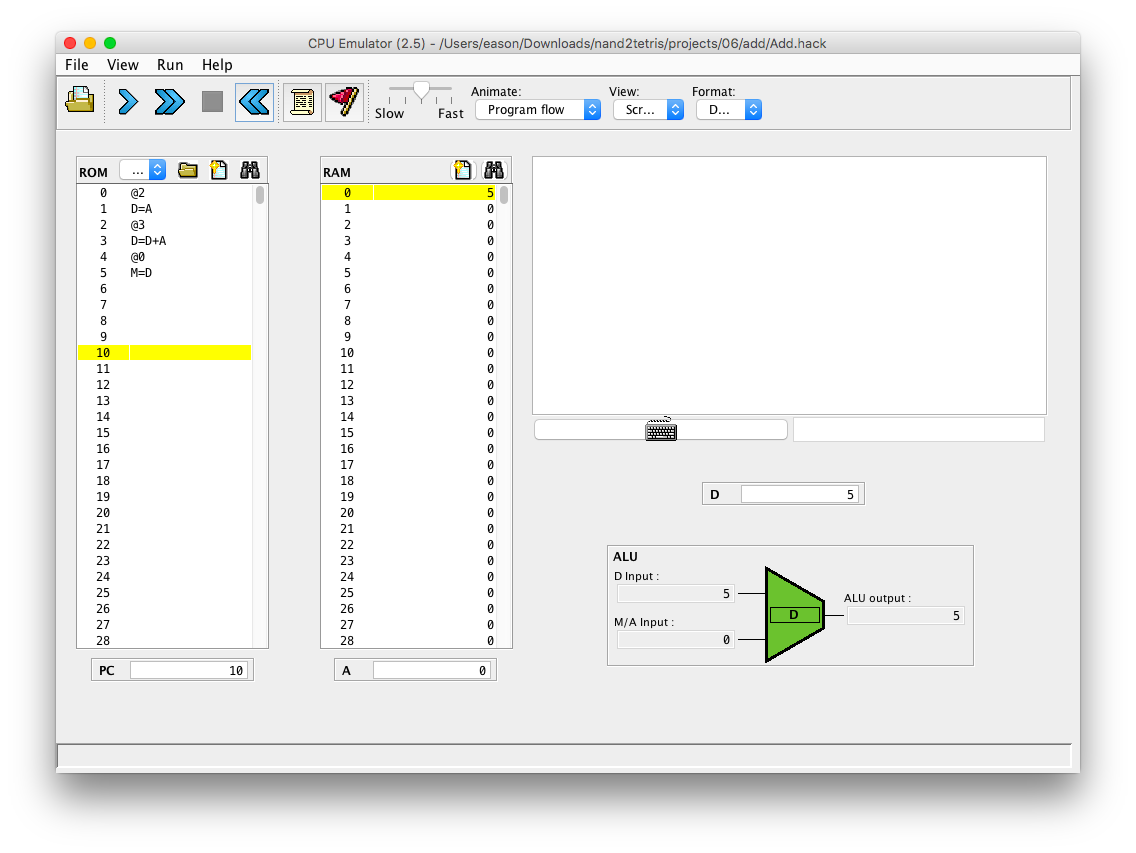
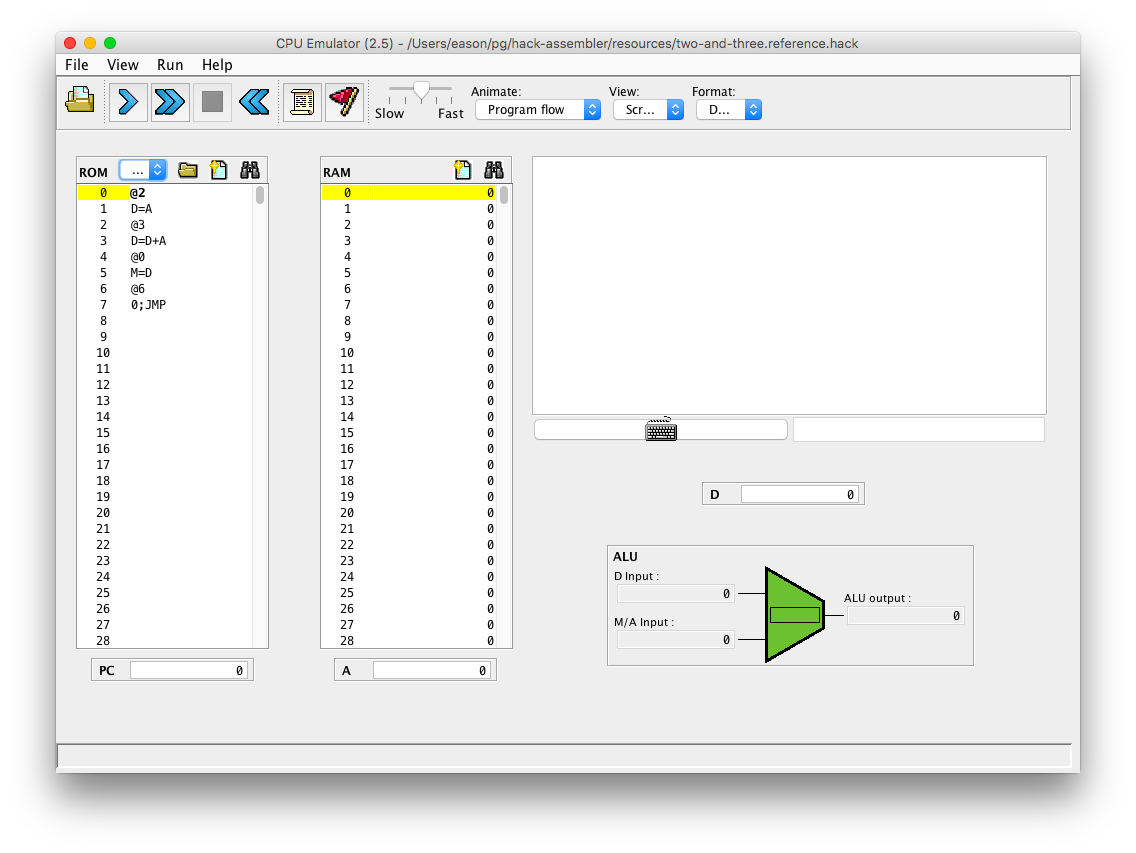
Improve documentation

diff --git a/README.md b/README.md
@@ -4,7 +4,9 @@ hack-assembler
 [![Build Status](https://travis-ci.org/easoncxz/hack-assembler.svg?branch=master)](https://travis-ci.org/easoncxz/hack-assembler)
 ![Build and test](https://github.com/easoncxz/hack-assembler/workflows/Build%20and%20test/badge.svg)
 
-![nand2tetris](resources/nand2tetris-banner.png "NAND to Tetris")
+<p align="center">
+  ![nand2tetris](resources/nand2tetris-banner.png "NAND to Tetris")
+</p>
 
 # An assembler for an educational assembly language
 
@@ -21,7 +23,9 @@ for that course: [(PDF) 6.  Assembler][chapter].
 # Installation
 
     $ brew install easoncxz/tap/hack-assembler
+    ... Homebrew does its thing ...
     $ which hack-assembler
+    /usr/local/bin/hack-assembler
 
 For macOS, I've set up some CI servers to pre-compile the package for you if you 
 are on High Sierra (macOS 10.13) through to Catalina (macOS 10.15), so the `brew 
@@ -53,12 +57,16 @@ In a file, say `two-and-three.asm`:
 
     // Computes R0 = 2 + 3  (R0 refers to RAM[0])
 
-    @2
-    D=A
-    @3
-    D=D+A
-    @0
-    M=D
+        @2
+        D=A
+        @3
+        D=D+A
+        @0
+        M=D
+    (INFINITE_LOOP)
+        @INFINITE_LOOP
+        0;JMP
+
 
 If we run the command:
 
@@ -73,26 +81,38 @@ We will get a file `two-and-three.hack` with the contents below:
     0000000000000000
     1110001100001000
 
+I have provided the above `two-and-three.asm` and a reference output
+`two-and-three.reference.hack` inside the `resources` directory for your
+convenience.
+
 # Hack language and platform
 
-You'll have to read the chapter in the book to know more about the syntax and 
-semantics of the Hack language: [(PDF) 6.  Assembler][chapter]. To execute the 
-resulting Hack binary machine code, you'll have to use the Hack "CPU Emulator" 
-GUI program, which is implemented in Java Swing and provided by the NAND to 
-Tetris course staff: See [The Nand to Tetris Software Suite][software]. I've 
-checked-in a copy of their software suite here at 
+The Hack language has only a handful of types of instructions:
+
+- "A instructions", with their leading `@`, and
+- "C instructions", with three sometimes-optional components separated by `=`
+  and `;` symbols, and
+- Some pseudo-instructions like comments (`//`) and labels (`(LABEL)`).
+
+I implemented these in the `Model` module.  To know more about the syntax and
+semantics of the Hack language, you'd have to read the chapter in the book :
+[(PDF) 6.  Assembler][chapter].
+
+To execute the resulting Hack binary machine code, you'll have to use the "CPU
+Emulator" GUI program, which is implemented in Java Swing and provided by the
+NAND to Tetris course staff: See [The Nand to Tetris Software Suite][software].
+I've checked-in a copy of their software suite here at
 [resources/nand2tetris.zip][zip].
 
-The GUI can be launched via the script at `nand2tetris/tools/CPUEmulator.sh`. It 
-looks like this if we load up the example `two-and-three.hack` program from 
-above:
+The GUI can be launched via the script at `nand2tetris/tools/CPUEmulator.sh`
+inside the zip file. It looks like this if we load up the example
+`resources/two-and-three.reference.hack` program from above:
 
 ![CPU Emulator](resources/CPUEmulator_screenshot.png "CPU Emulator")
 
-"File > Load Program", select your plain-text binary `.hack` file, then click 
-the "Run" icon (`>>`). In this case, since the program didn't finish off with an 
-infinite loop, the program counter just keeps advancing down the ROM without 
-stopping. Just click the "Stop" icon manually.
+Click the "Load Program" icon (brown folder), select your plain-text binary
+`.hack` file, then click the "Run" icon (`>>` symbol) to start running your
+Hack program.
 
 # Development
 
@@ -117,9 +137,31 @@ Then you're ready to compile some code.
 
     $
 
+# About packaging and publishing
+
+As you'd probably have figured from the above, I've published `hack-assembler` 
+as a Homebrew Formula, [`hack-assembler.rb`][formula], over in my personal 
+Homebrew Tap at [`easoncxz/homebrew-tap`][tap]. "Formula" and "Tap" are 
+[Homebrew's beer-themed jargon words][beer]. Homebrew identifies my tap by their 
+naming convention as `easoncxz/tap`, hence the Homebrew command `brew install 
+easoncxz/tap/hack-assembler`.
+
+To know more about how I've set it all up, you can read through my `.travis.yml` 
+and `.github/workflows/` continuous-integration configuration files. It's a bit 
+of a mess because I had to use Travis CI's macOS build servers to get macOS 
+versions 10.13 and 10.14, and Github Action's build servers to get macOS 10.15.  
+
+To decouple this repo from the nitty-gritty Homebrew-related details, I dealt 
+with the Homebrew publishing workflows in a RubyGem I created for exactly this 
+purpose, called [`homebrew_automation`][gem]. I use the `homebrew_automation.rb` 
+CLI tool in this repo via `gem install homebrew_automation`.
+
 [homepage]: http://www.nand2tetris.org/
 [project]: https://www.nand2tetris.org/project06
 [chapter]: resources/chapter-06.pdf
 [software]: https://www.nand2tetris.org/software
 [zip]: resources/nand2tetris.zip
 [hs-stack]: https://docs.haskellstack.org/en/stable/README/
+[tap]: https://github.com/easoncxz/homebrew-tap
+[formula]: https://github.com/easoncxz/homebrew-tap/blob/master/Formula/hack-assembler.rb
+[beer]: https://docs.brew.sh/
